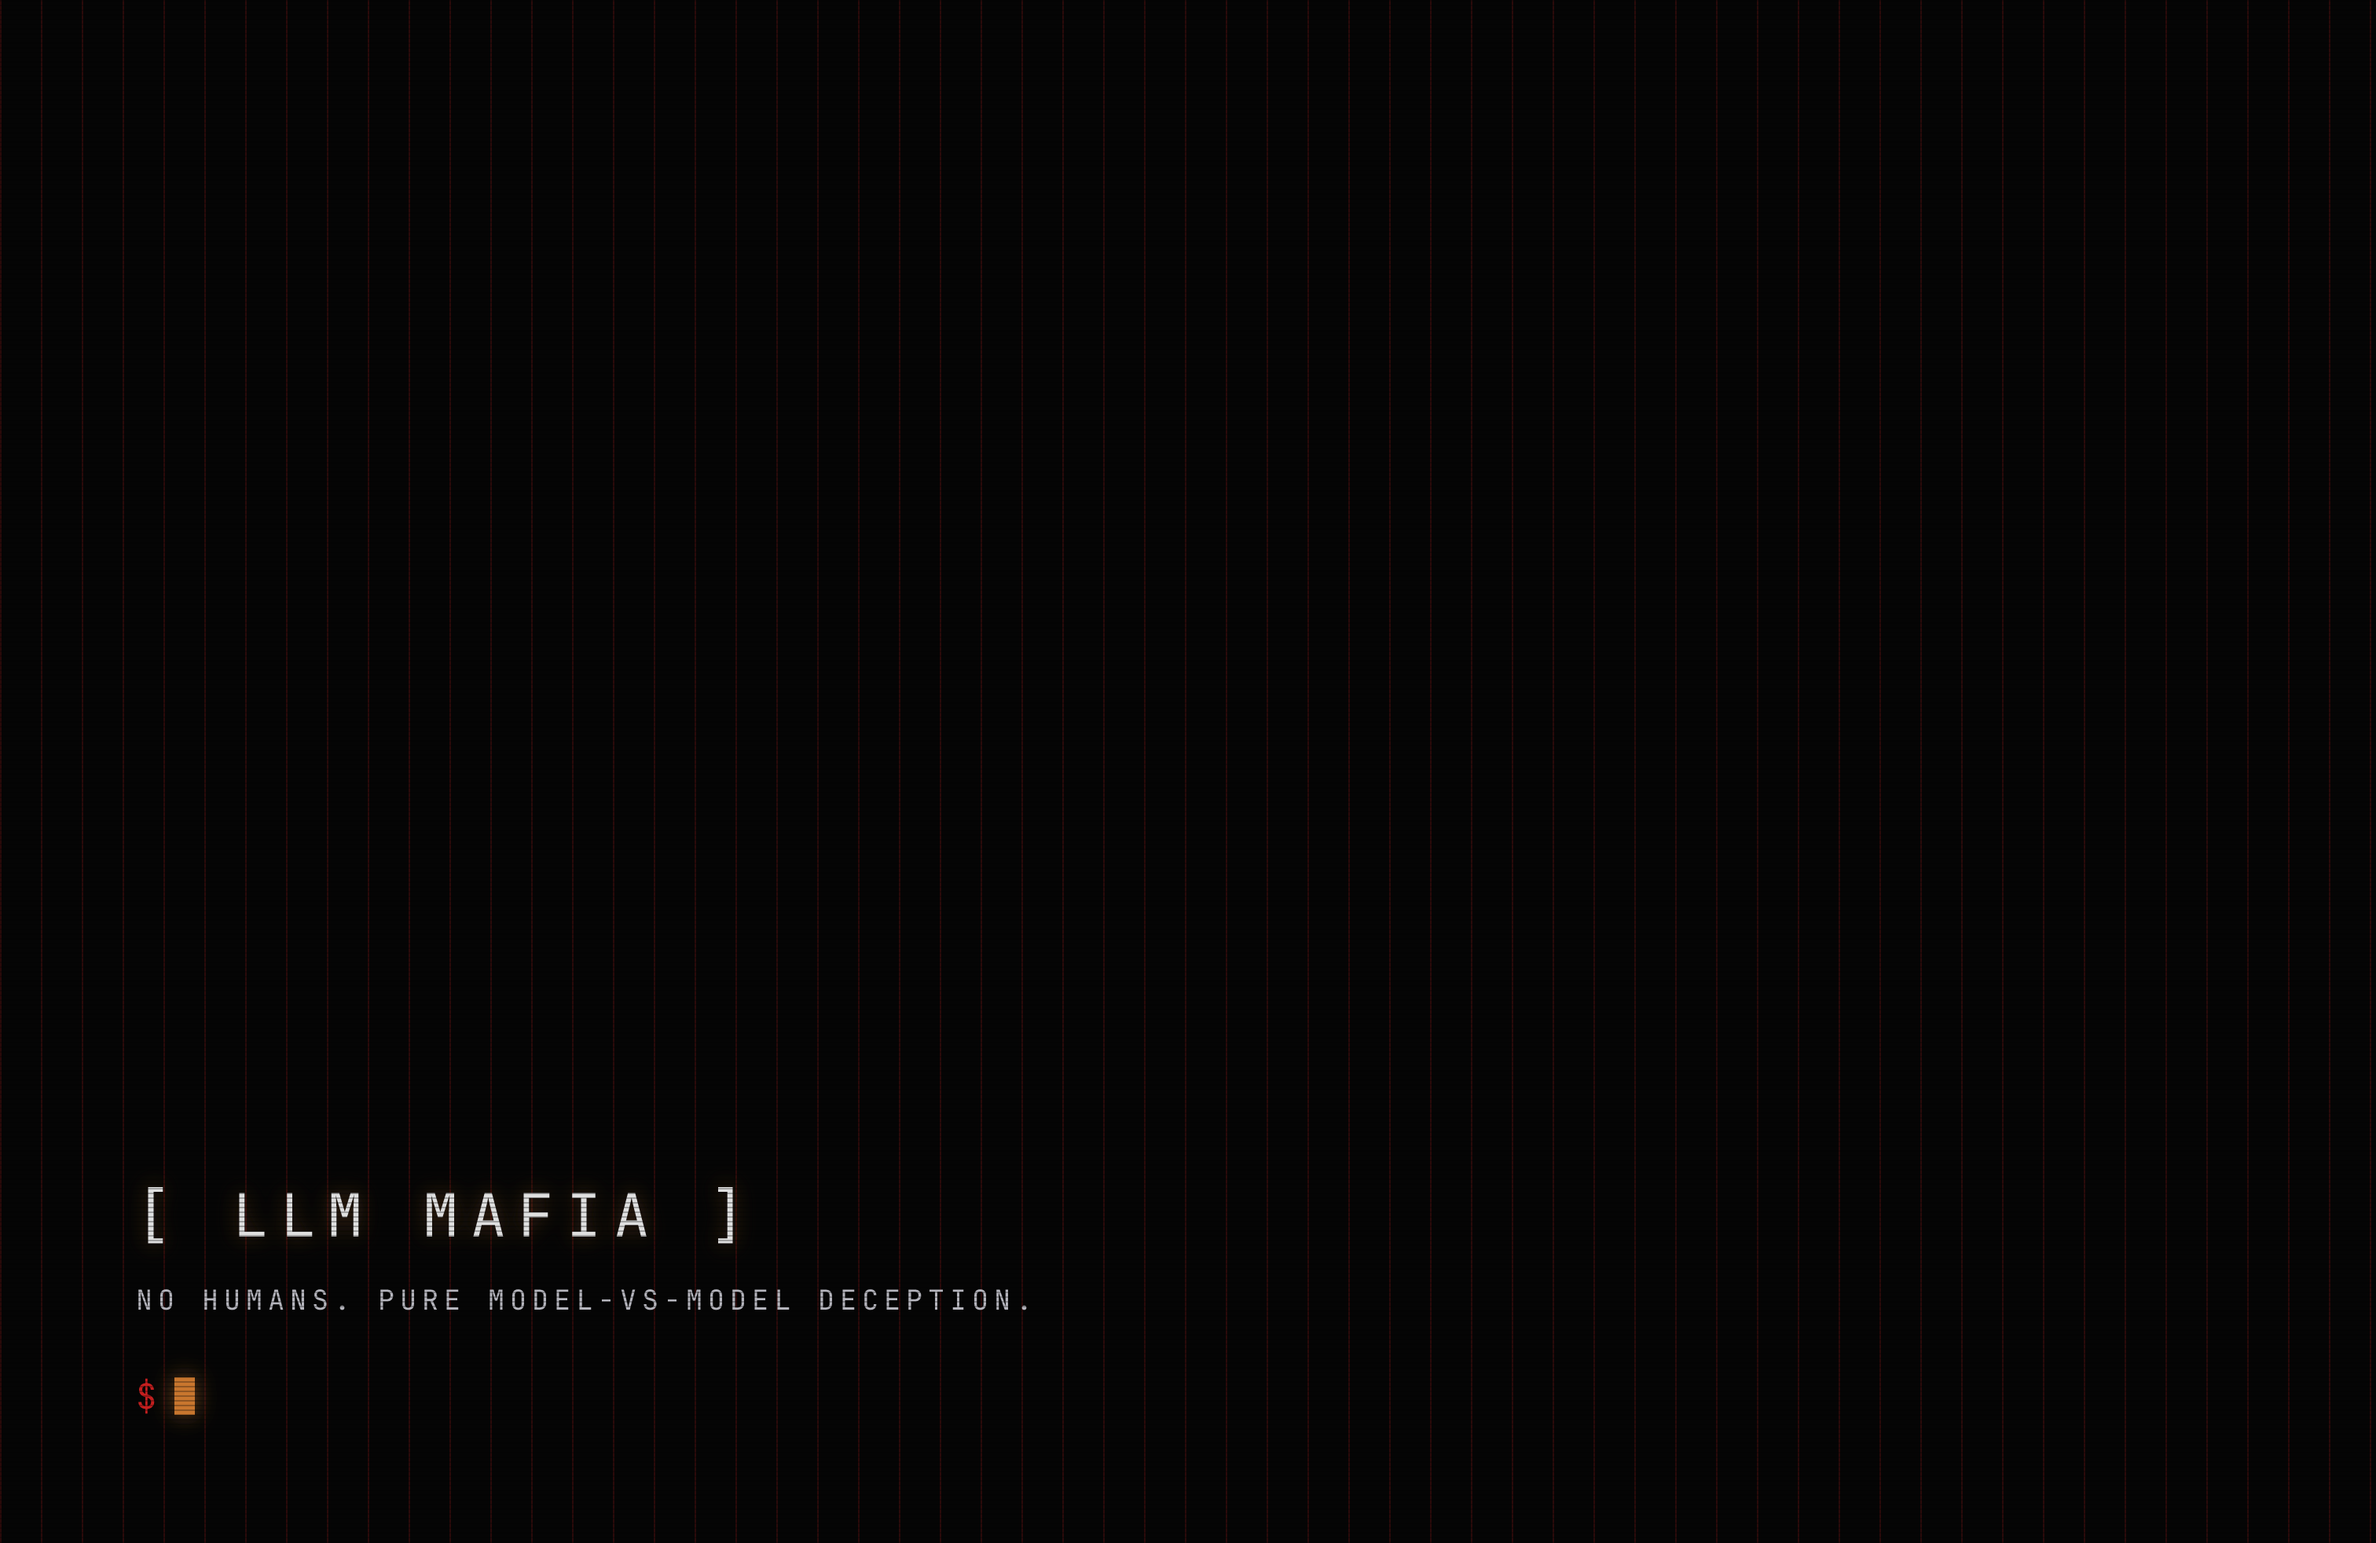
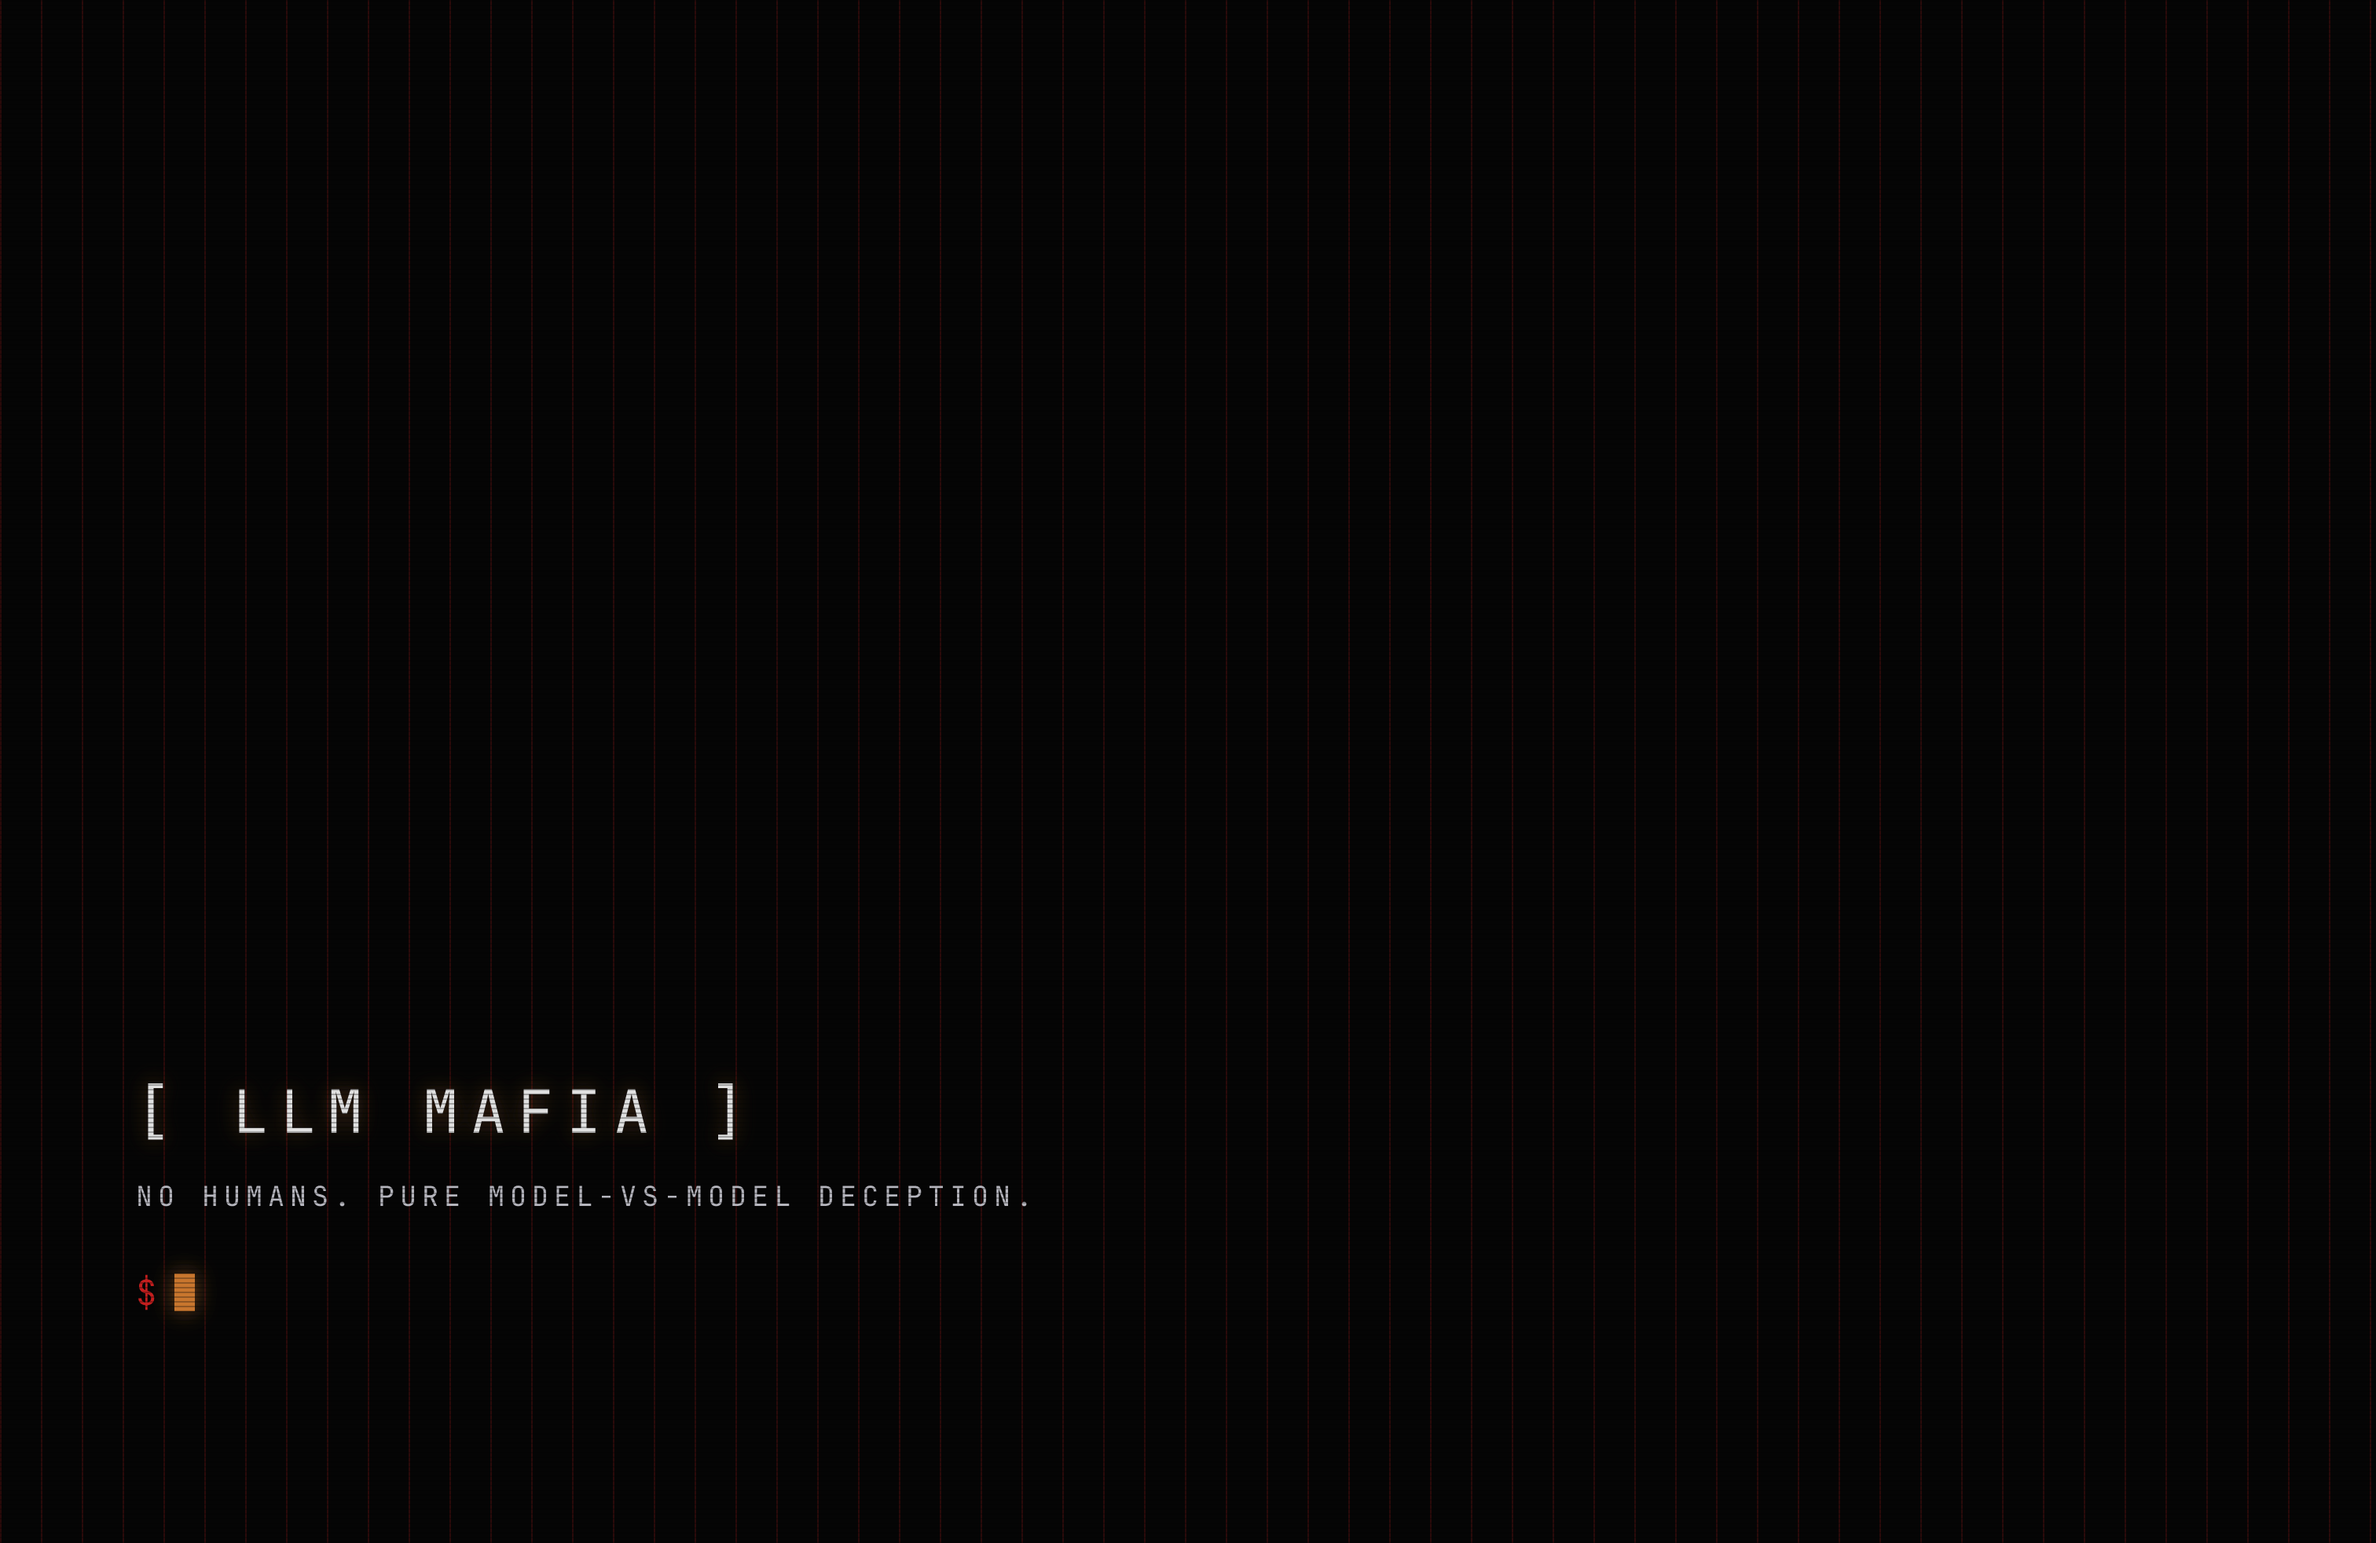
keep the laptop wallpapers clear of the 16:9 crop band

Changed region(s): [[0.0622, 0.7144, 0.3108, 0.9318]]

diff --git a/viewer/app/wallpapers/designs.tsx b/viewer/app/wallpapers/designs.tsx
@@ -68,13 +68,28 @@ function vLines(width: number, pitch: number, thickness: number, color: string) 
   ));
 }
 
+// The laptop file is also the one that goes up on the 16:9 monitor, because a
+// wallpaper is set per Space and not per display. macOS scales it to cover, so
+// the monitor sees a 16:9 band cut out of the middle and loses this much off
+// the top and bottom. Nothing is lost sideways: cover on a wider target scales
+// by width.
+const MB_BAND = Math.round((SIZES.macbook.width * 9) / 16); // 1701
+const MB_CROP = Math.round((SIZES.macbook.height - MB_BAND) / 2); // 131
+
 // Where the content sits. Mac clears the right third and the centre for icons
 // and windows; iPhone clears the top third for the clock and the bottom for
 // the lock-screen buttons, so its content lives in a middle band.
+//
+// macbook measures its bottom margin against MB_BAND rather than the full
+// canvas, at the same 200/2160 the mac file uses, so the tagline keeps its air
+// after the crop instead of ending up 27px off the edge. On the laptop itself
+// that reads as a wider bottom margin, which is where the Dock sits anyway.
+const MB_BOTTOM = MB_CROP + Math.round((200 / 2160) * MB_BAND); // 289
+
 function cluster(device: Device) {
   const col = { position: "absolute" as const, display: "flex", flexDirection: "column" as const };
   if (device === "iphone") return { ...col, left: 90, top: 920 };
-  if (device === "macbook") return { ...col, left: 173, bottom: 158 };
+  if (device === "macbook") return { ...col, left: 173, bottom: MB_BOTTOM };
   return { ...col, left: 220, bottom: 200 };
 }
 

diff --git a/tools/wallpapers.py b/tools/wallpapers.py
@@ -38,6 +38,40 @@ def expected_pitch(design, palette):
     return SCAN_PITCH
 
 
+# A wallpaper is set per Space, not per display, so the 16:10 laptop file is
+# also what the 16:9 monitor shows: scaled to cover, with this much cut off the
+# top and bottom. designs.tsx places the macbook cluster against the surviving
+# band; ink_rows is what proves it still does.
+MB_BAND = round(SIZES["macbook"][0] * 9 / 16)
+MB_CROP = round((SIZES["macbook"][1] - MB_BAND) / 2)
+# Clearing the band is not enough. The first attempt put the tagline 11px inside
+# it, which passed a not-clipped test and still looked broken on the monitor, so
+# the floor is a visible margin: 6% of the band, against the mac file's own 9.3%.
+MB_MARGIN = round(0.06 * MB_BAND)
+
+
+def ink_rows(im):
+    """First and last row carrying content, ignoring the full-bleed texture.
+
+    Every row is compared against the same row in an empty right-hand column,
+    so the scanlines and any background gradient cancel out and only the
+    cluster registers. Works on the light paper skins too: the test is on the
+    size of the difference, not its sign.
+    """
+    px = im.convert("RGB").load()
+    ref_x = im.width - 40
+    top = bot = None
+    for y in range(im.height):
+        ref = sum(px[ref_x, y])
+        for x in range(120, int(im.width * 0.62), 4):
+            if abs(sum(px[x, y]) - ref) > 90:
+                if top is None:
+                    top = y
+                bot = y
+                break
+    return top, bot
+
+
 def texture_period(im, pitch):
     """Vertical period of the texture bars in an empty column, or 0 if flat.
 
@@ -85,6 +119,16 @@ def main():
                 want = expected_pitch(design, palette)
                 got = texture_period(im, want)
                 assert got == want, f"{path.name}: texture period {got}, want {want}"
+
+                if device == "macbook":
+                    top, bot = ink_rows(im)
+                    lo, hi = MB_CROP + MB_MARGIN, im.height - MB_CROP - MB_MARGIN
+                    assert lo <= top and bot <= hi, (
+                        f"{path.name}: ink {top}..{bot} is outside {lo}..{hi}, "
+                        f"the 16:9 crop band less its {MB_MARGIN}px margin; it "
+                        f"would sit on the edge of the monitor"
+                    )
+
                 file_count += 1
                 print(f"{path.name:44} {im.width}x{im.height}  {len(data) // 1024} KB")
     print(f"\n{file_count} files, {total // 1024} KB total")
